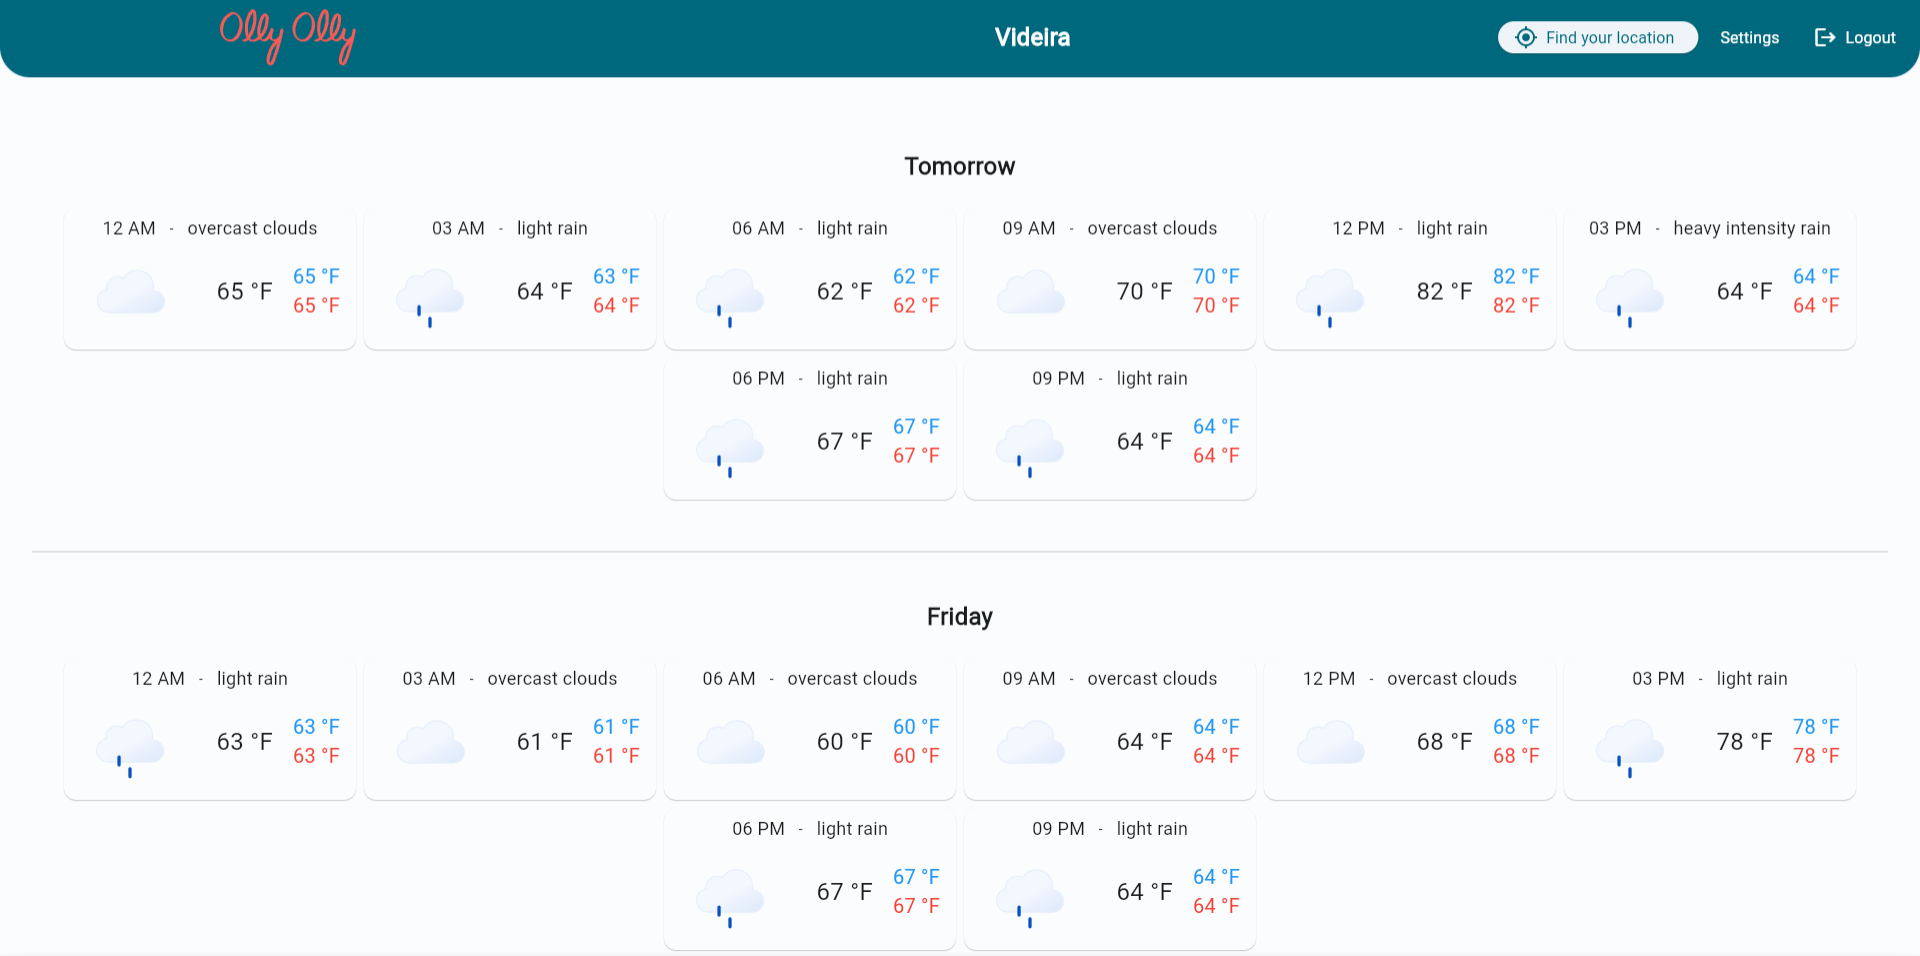
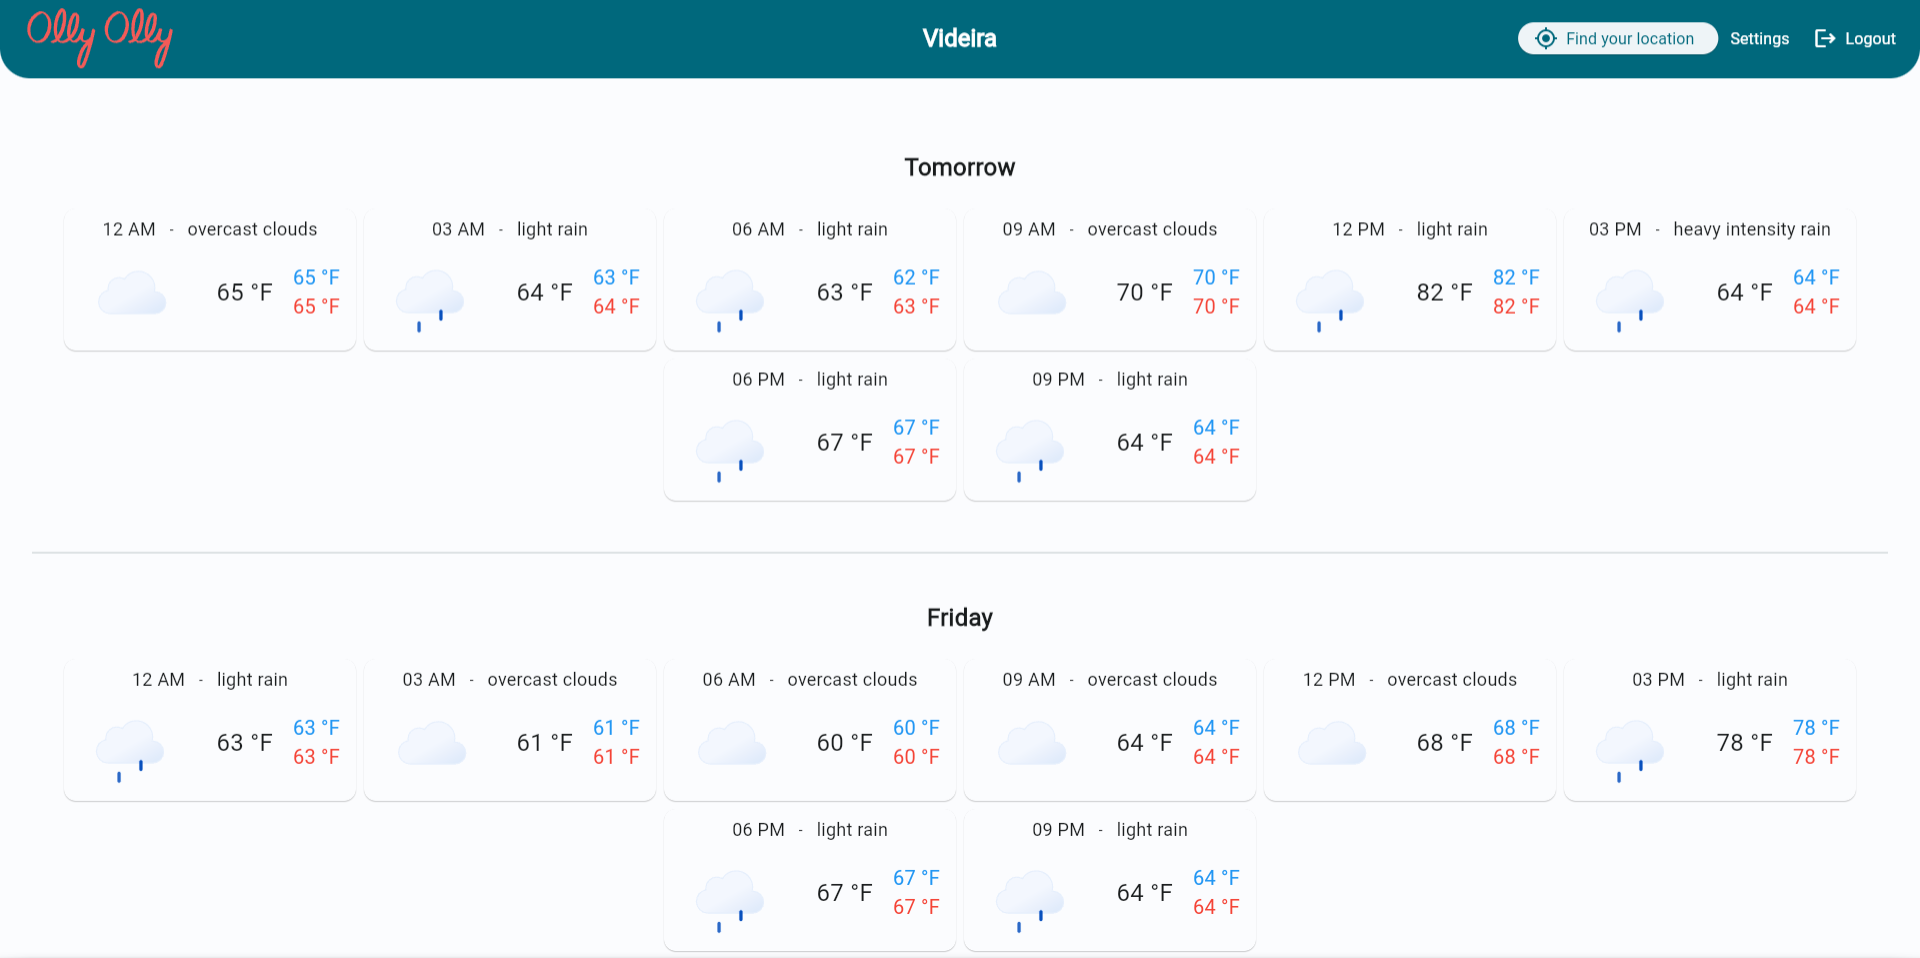
finished fixing responsivity problems in the home topbar

diff --git a/lib/ui/home/topbar.dart b/lib/ui/home/topbar.dart
@@ -9,12 +9,14 @@ class Topbar extends StatelessWidget implements PreferredSizeWidget {
     required this.onGeolocate,
     required this.openSettings,
     required this.onLogout,
+    required this.isWebDesign,
   });
 
   final String title;
   final VoidCallback onGeolocate;
   final VoidCallback openSettings;
   final VoidCallback onLogout;
+  final bool isWebDesign;
 
   @override
   Size get preferredSize => const Size.fromHeight(kToolbarHeight);
@@ -22,102 +24,85 @@ class Topbar extends StatelessWidget implements PreferredSizeWidget {
   @override
   Widget build(BuildContext context) {
     final colorScheme = Theme.of(context).colorScheme;
-    final isWebDesign = MediaQuery.of(context).size.width > 680;
+    final screenWidth = MediaQuery.of(context).size.width;
     if (isWebDesign) {
-      return Container(
-        height: 80,
-        constraints: const BoxConstraints(maxWidth: 1980),
-        width: double.infinity,
-        decoration: BoxDecoration(
-          color: colorScheme.primary,
-          borderRadius: const BorderRadius.only(
+      return AppBar(
+        toolbarHeight: 80,
+        leadingWidth: screenWidth > 1000 ? 200 : 150,
+        backgroundColor: colorScheme.primary,
+        shape: const RoundedRectangleBorder(
+          borderRadius: BorderRadius.only(
             bottomLeft: Radius.circular(30),
             bottomRight: Radius.circular(30),
           ),
         ),
-        child: Row(
-          mainAxisAlignment: MainAxisAlignment.spaceBetween,
-          children: [
-            const Flexible(
-              flex: 3,
-              child: Padding(
-                padding: EdgeInsets.all(18.0),
-                child: SvgPicture(
-                  AssetBytesLoader('assets/vectors/logo.svg.vec'),
-                ),
-              ),
-            ),
-            const Spacer(),
-            Expanded(
-              flex: 4,
-              child: Text(
-                title,
-                maxLines: 2,
-                textAlign: TextAlign.center,
-                style: TextStyle(
-                  fontSize: 24,
-                  fontWeight: FontWeight.w600,
-                  color: colorScheme.onPrimary,
-                ),
-              ),
-            ),
-            Flexible(
-              flex: 3,
-              child: Padding(
-                padding: const EdgeInsets.all(8.0),
-                child: Wrap(
-                  alignment: WrapAlignment.center,
-                  runAlignment: WrapAlignment.center,
-                  runSpacing: 10,
-                  spacing: 10,
-                  children: [
-                    ElevatedButton.icon(
-                      onPressed: onGeolocate,
-                      icon: Icon(
-                        Icons.gps_fixed,
-                        color: colorScheme.primary,
-                      ),
-                      label: Flexible(
-                        child: Text(
-                          "Find your location",
-                          maxLines: 2,
-                          style: TextStyle(
-                            color: colorScheme.primary,
-                            fontSize: 16,
-                          ),
-                        ),
-                      ),
-                    ),
-                    TextButton(
-                      onPressed: openSettings,
-                      child: Text(
-                        'Settings',
-                        style: TextStyle(
-                          color: colorScheme.onPrimary,
-                          fontSize: 16,
-                        ),
-                      ),
-                    ),
-                    TextButton.icon(
-                      onPressed: onLogout,
-                      icon: Icon(
-                        Icons.logout,
-                        color: colorScheme.onPrimary,
-                      ),
-                      label: Text(
-                        "Logout",
-                        style: TextStyle(
-                          color: colorScheme.onPrimary,
-                          fontSize: 16,
-                        ),
-                      ),
-                    ),
-                  ],
-                ),
-              ),
-            ),
-          ],
+        leading: const Padding(
+          padding: EdgeInsets.symmetric(horizontal: 20, vertical: 10),
+          child: SvgPicture(
+            AssetBytesLoader('assets/vectors/logo.svg.vec'),
+          ),
         ),
+        centerTitle: screenWidth > 1000,
+        title: Text(
+          title,
+          maxLines: 2,
+          textAlign: TextAlign.center,
+          style: TextStyle(
+            fontSize: 24,
+            fontWeight: FontWeight.w600,
+            color: colorScheme.onPrimary,
+          ),
+        ),
+        actions: [
+          Padding(
+            padding: const EdgeInsets.all(8.0),
+            child: Wrap(
+              children: [
+                ElevatedButton.icon(
+                  onPressed: onGeolocate,
+                  icon: Icon(
+                    Icons.gps_fixed,
+                    color: colorScheme.primary,
+                  ),
+                  label: Flexible(
+                    child: Text(
+                      "Find your location",
+                      maxLines: 2,
+                      style: TextStyle(
+                        color: colorScheme.primary,
+                        fontSize: 16,
+                      ),
+                    ),
+                  ),
+                ),
+                TextButton(
+                  onPressed: openSettings,
+                  child: Text(
+                    'Settings',
+                    style: TextStyle(
+                      color: colorScheme.onPrimary,
+                      fontSize: 16,
+                    ),
+                  ),
+                ),
+                TextButton.icon(
+                  onPressed: onLogout,
+                  icon: Icon(
+                    Icons.logout,
+                    color: colorScheme.onPrimary,
+                  ),
+                  label: Text(
+                    "Logout",
+                    style: TextStyle(
+                      color: colorScheme.onPrimary,
+                      fontSize: 16,
+                    ),
+                  ),
+                ),
+              ],
+            ),
+          ),
+        ],
       );
     } else {
       return SliverAppBar(

diff --git a/lib/ui/home/home_screen.dart b/lib/ui/home/home_screen.dart
@@ -83,6 +83,7 @@ class _HomeScreenState extends State<HomeScreen> {
             return Column(
               children: [
                 Topbar(
+                  isWebDesign: isWebDesign,
                   title: model.cityName ?? "Welcome!",
                   onGeolocate: () => model
                       .updateCoordinates()
@@ -120,6 +121,7 @@ class _HomeScreenState extends State<HomeScreen> {
                   headerSliverBuilder: (_, __) {
                     return [
                       Topbar(
+                        isWebDesign: isWebDesign,
                         title: model.cityName ?? "Welcome!",
                         onGeolocate: () => model
                             .updateCoordinates()
